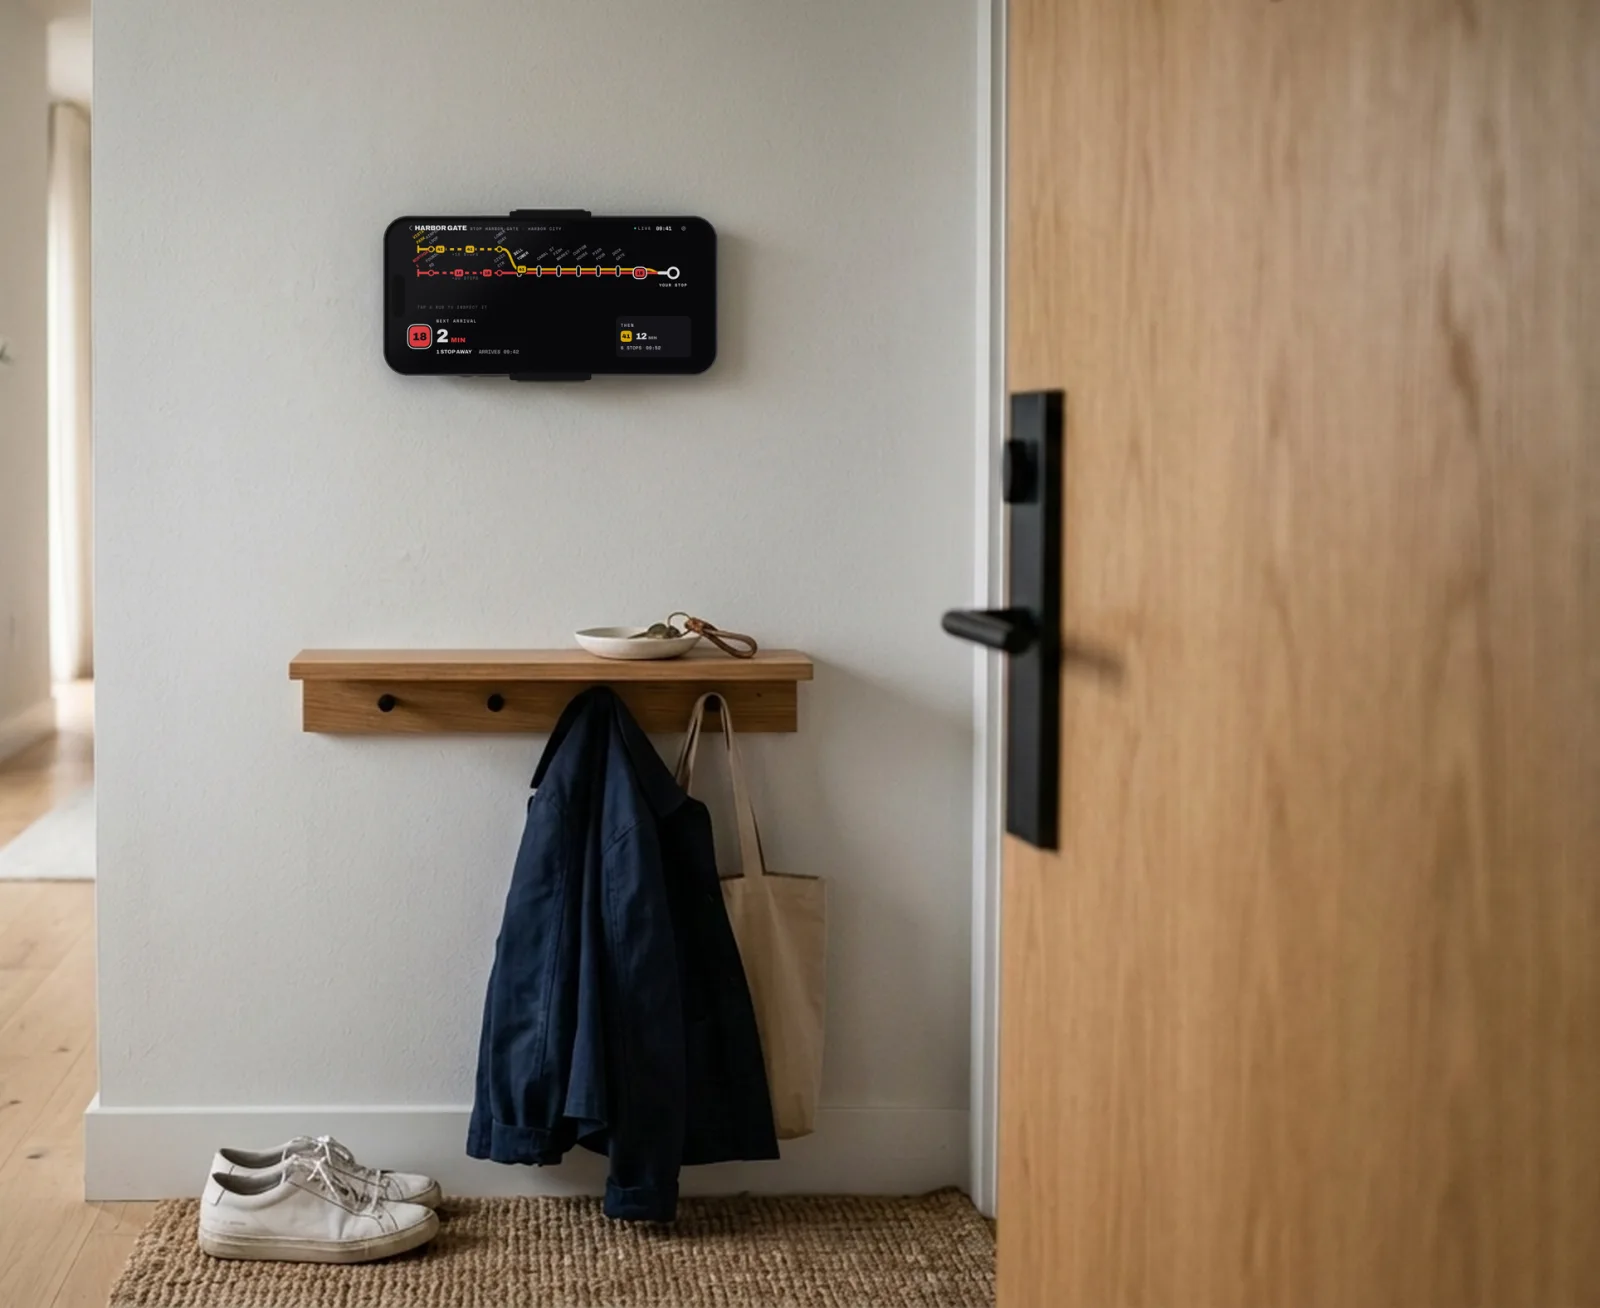
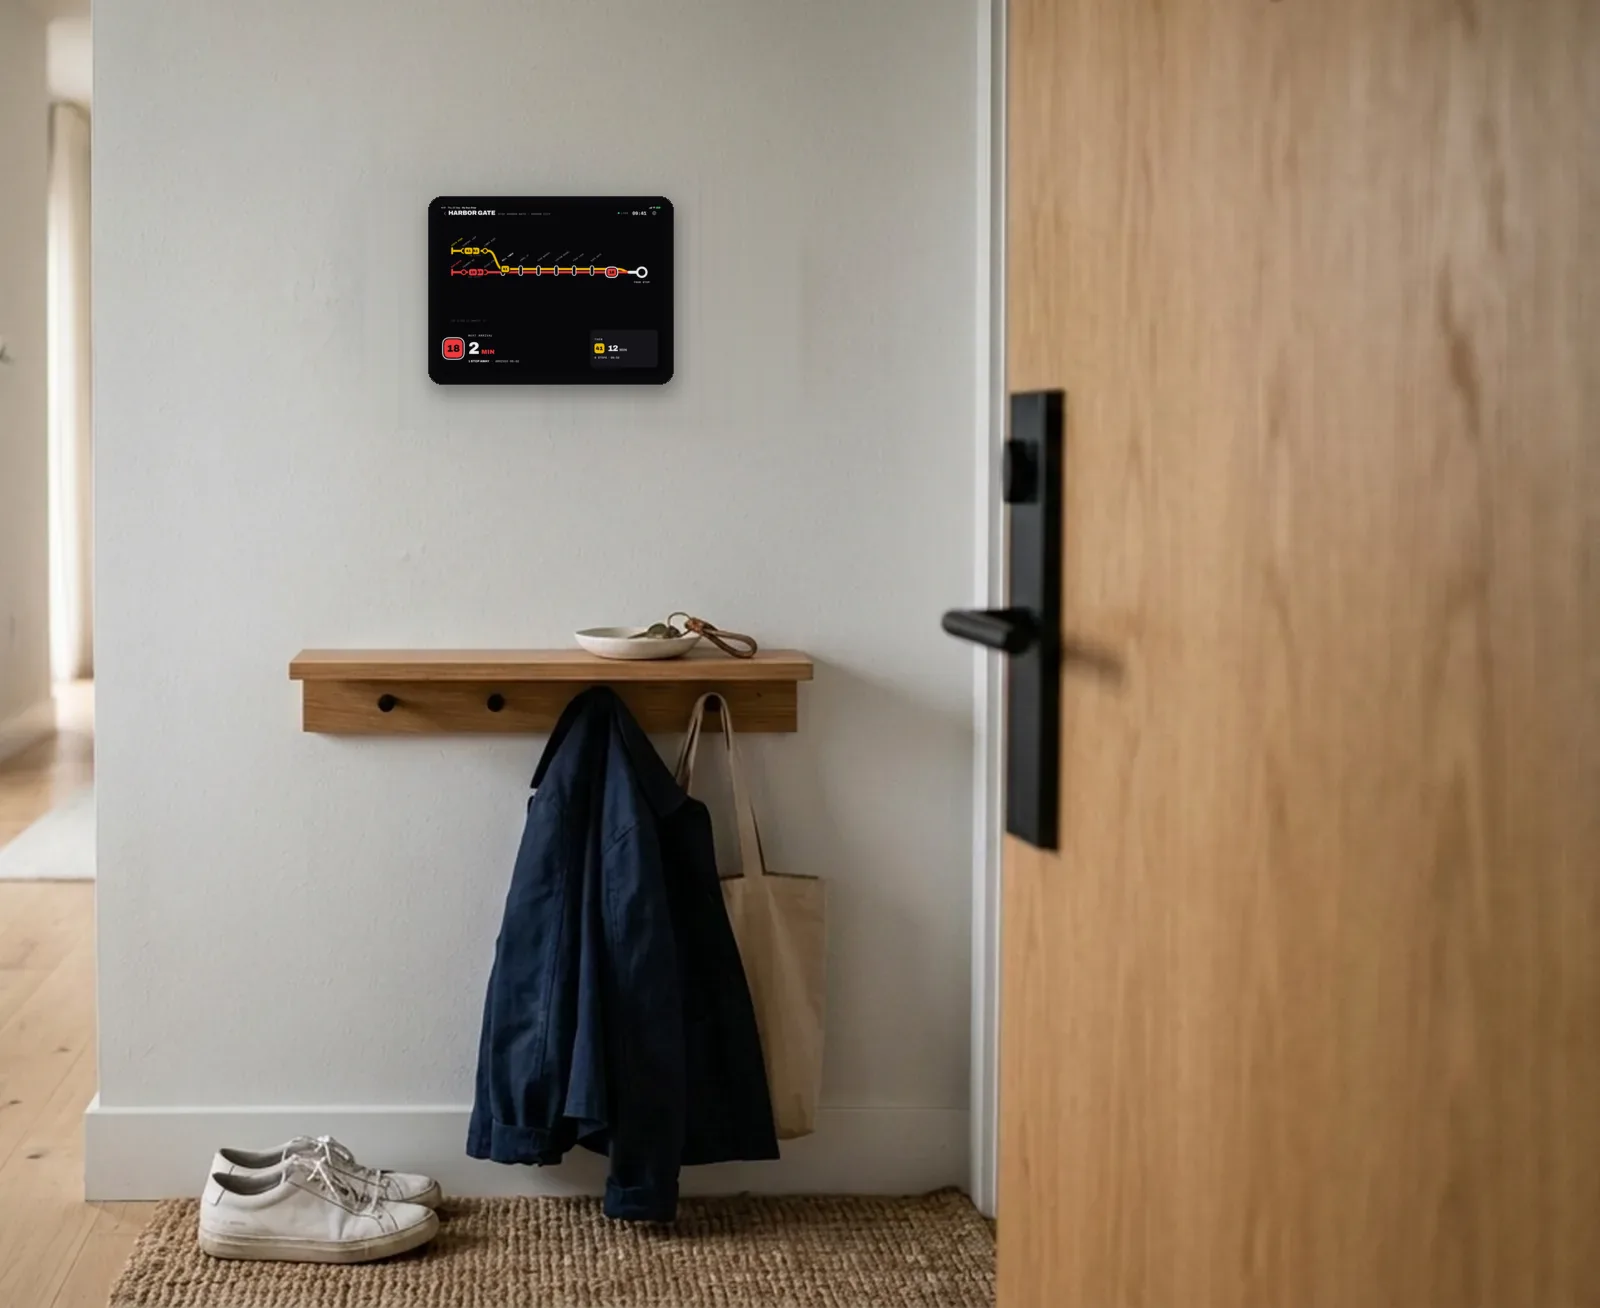
My Bus Stop: show the entryway board on a 13" iPad, sized to the room
Claude-Session: https://claude.ai/code/session_01PiRo3fxcJDxE5toE6ptoUW

Changed region(s): [[0.2188, 0.1529, 0.5, 0.3058]]

diff --git a/MyBusStop/index.html b/MyBusStop/index.html
@@ -101,7 +101,7 @@
                     <p class="section-lede">Wall mode turns a spare iPad, iPhone or Mac into an always-on bus board for the hallway. Glance at it with your shoes on, and leave when the bus does.</p>
                 </div>
                 <div class="wall-scene">
-                    <img src="Assets/entryway.webp" alt="An entryway with the front door closed and an iPhone mounted sideways on the wall beside it, showing the board: line 18 in 2 minutes" class="wall-photo" width="1600" height="1308" loading="lazy">
+                    <img src="Assets/entryway.webp" alt="An entryway with the front door closed and an iPad mounted on the wall beside it, showing the board: line 18 in 2 minutes" class="wall-photo" width="1600" height="1308" loading="lazy">
                     <ul class="wall-facts">
                         <li><h3>Stays awake, stays dark</h3><p>The board keeps the screen on and dims at night, so it doesn't light up the room.</p></li>
                         <li><h3>On when you need it</h3><p>Choose the days and hours, like weekday mornings only.</p></li>
